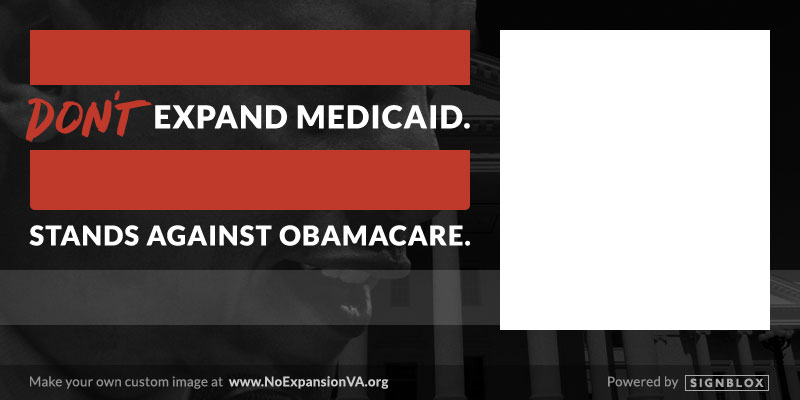
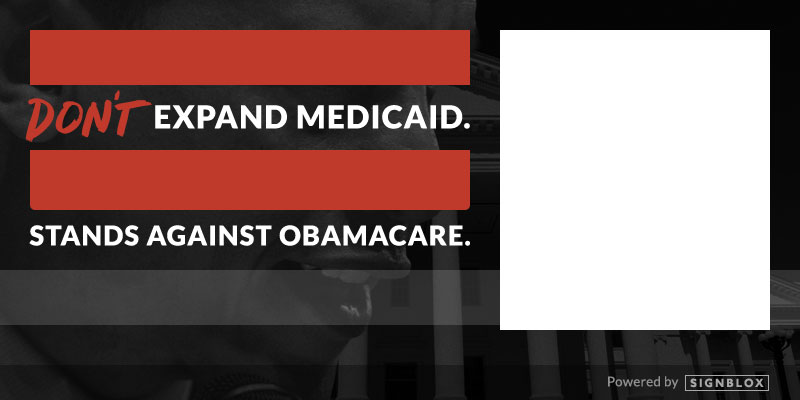
styling

Changed region(s): [[0.0312, 0.93, 0.5, 0.99]]

diff --git a/styles.css b/styles.css
@@ -5,8 +5,41 @@ body {
   background: url(./images/card/jpg) top left no-repeat;
 }
 
-.senator-image{
+.wrapper {
+  position: relative;
+  width: 800px;
+  height: 400px;
+  text-align: center;
+}
 
+.content-wrapper {
+  position: absolute;
+  width: 440px;
+  height: 100%;
+  margin-left: 30px;
+}
+
+.dear {
+  width: 100%;
+  height: 55px;
+  margin-top: 30px;
+  margin-bottom: 65px;
+}
+
+.senator-image{
+  position: absolute;
+  width: 330px;
+  height: 100%;
+  right: 0;
+}
+
+.senator-image-wrapper {
+  position: absolute;
+  border: 2px solid rgb( 255, 255, 255 );
+  overflow: hidden;
+  width: 270px;
+  height: 300px;
+  margin: 30px 30px 35px 30px;
 }
 
 .avatar-wrapper {
